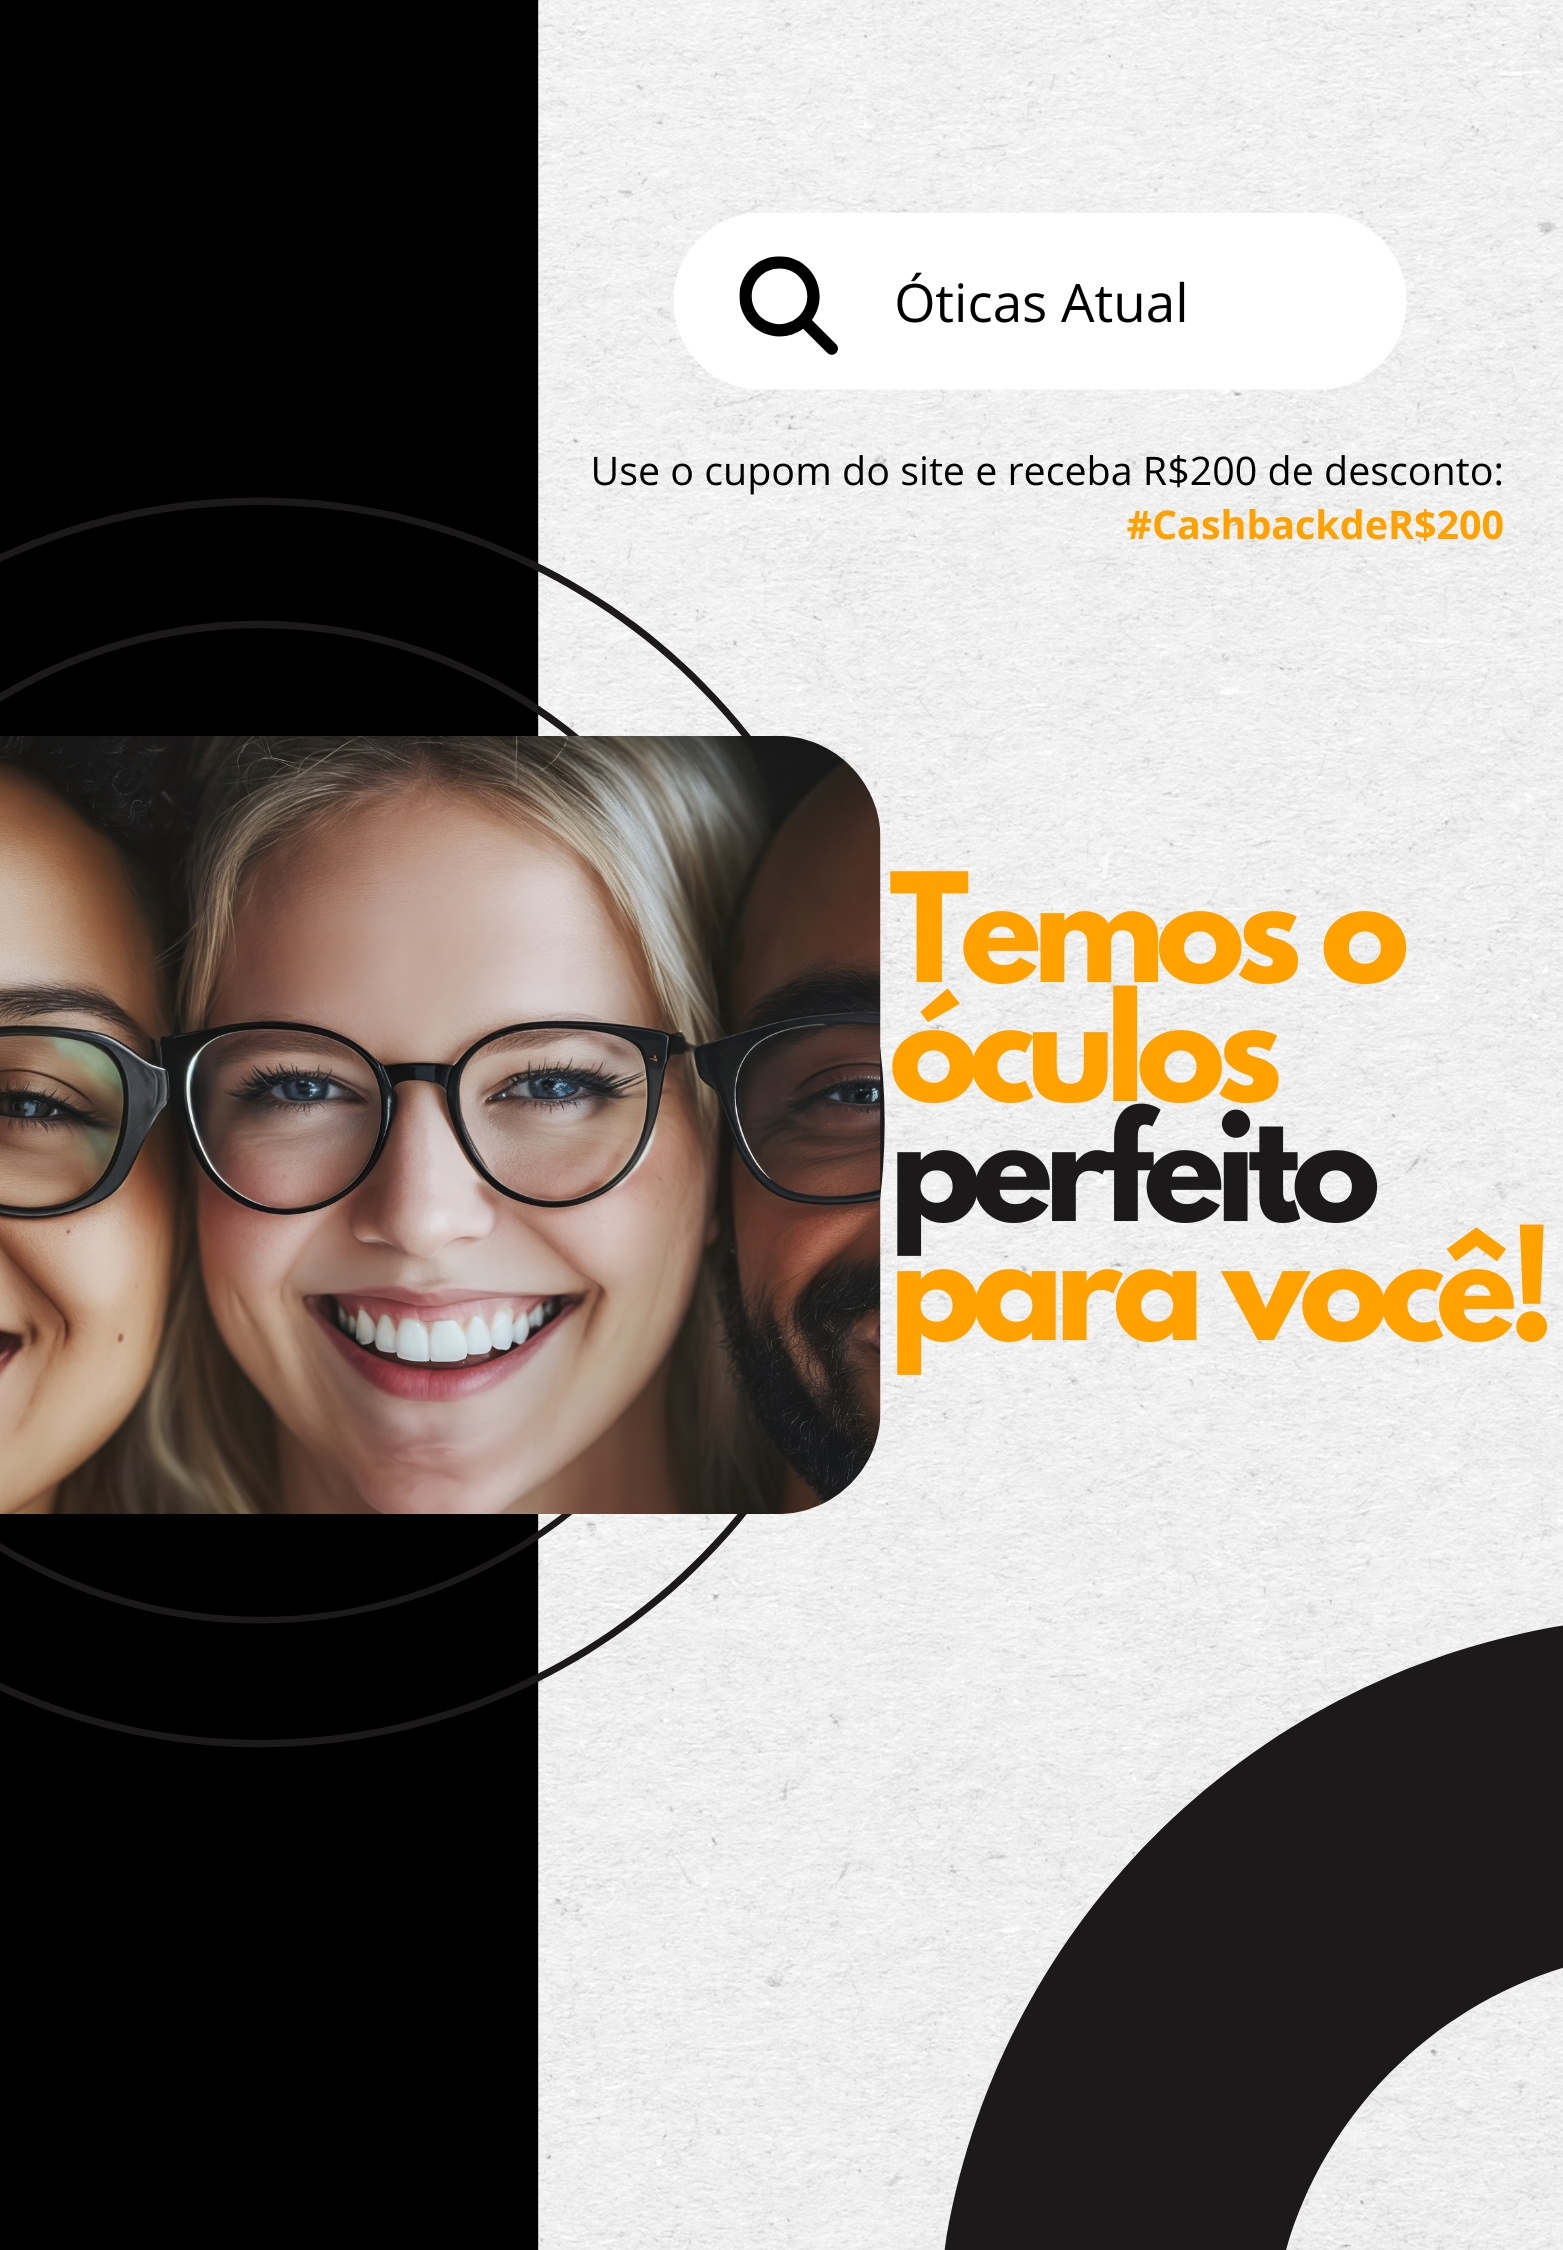
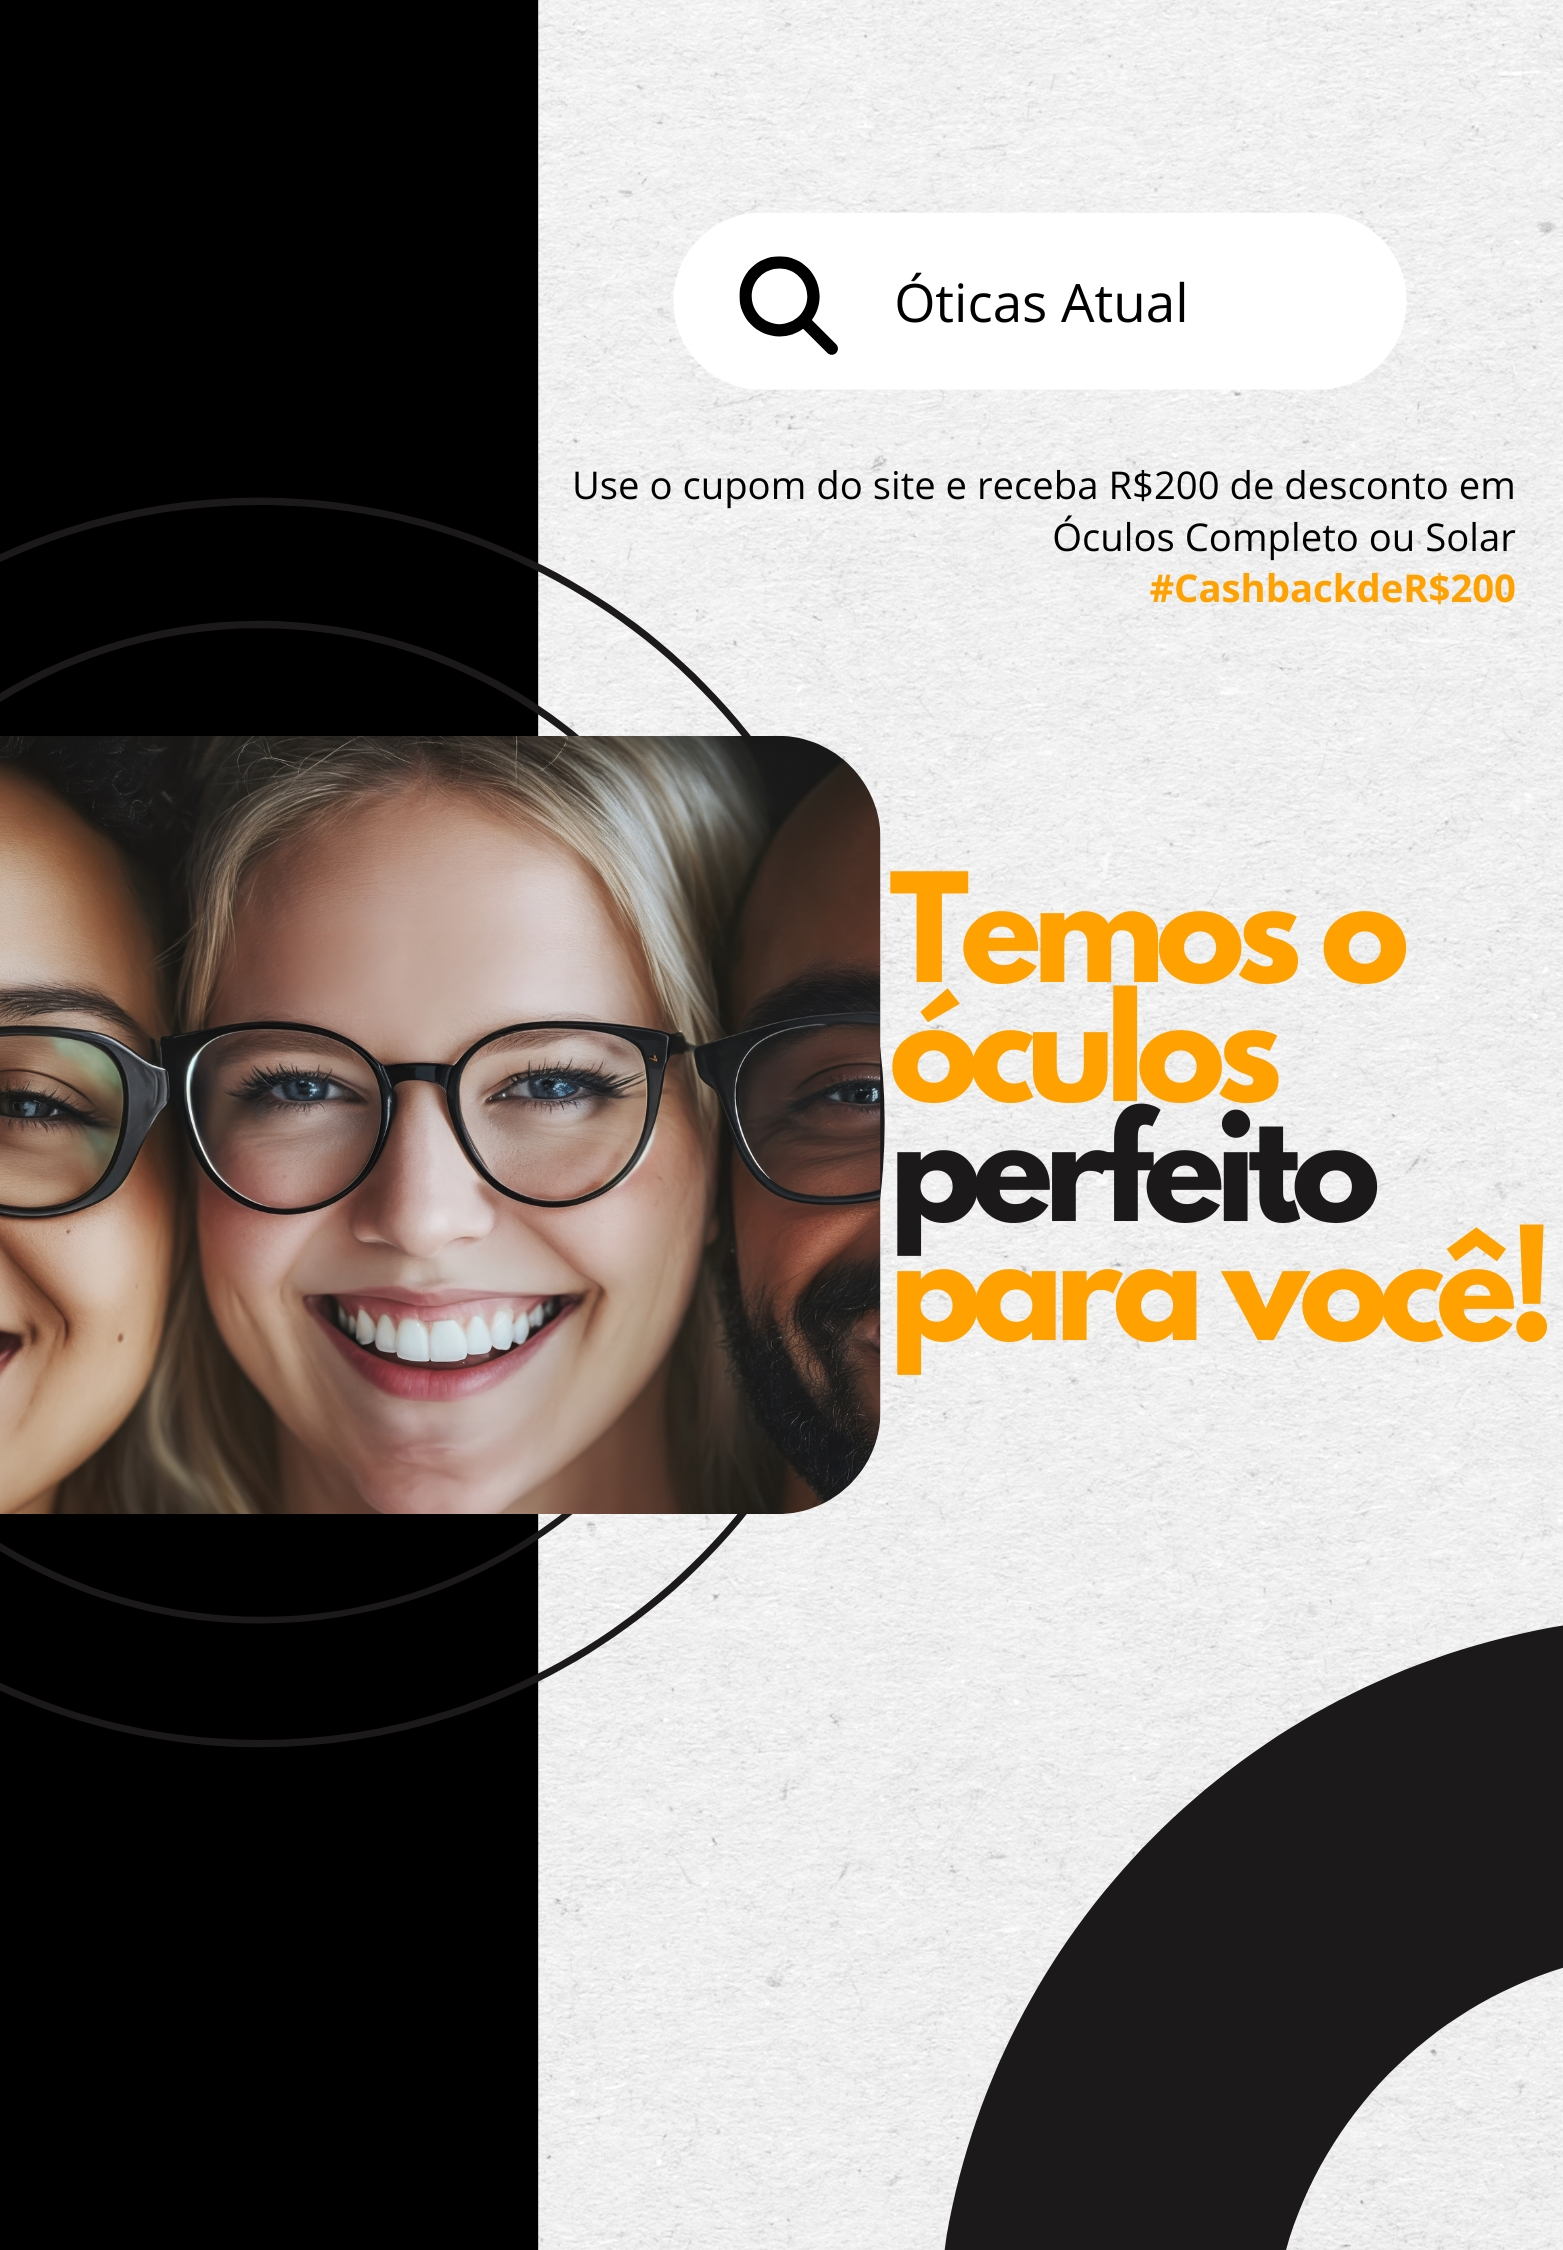
.

Changed region(s): [[0.3685, 0.1867, 0.9827, 0.28]]

diff --git a/index.html b/index.html
@@ -62,7 +62,7 @@
                     height="300" style="border:0;" allowfullscreen="" loading="lazy"
                     referrerpolicy="no-referrer-when-downgrade"></iframe>
                 <a id="btnAnl" href="https://wa.me/554396593397" class="btn btn-primary btn-lg">
-                    <i class="bi bi-whatsapp"></i> Londrina - Souza Naves 484
+                    <i class="bi bi-whatsapp"></i> Londrina - Souza Naves 726
                 </a>
             </div>
             <div class="d-flex flex-column flex-grow-1" style="flex-basis: 400px;">
@@ -71,7 +71,7 @@
                     height="300" style="border:0;" allowfullscreen="" loading="lazy"
                     referrerpolicy="no-referrer-when-downgrade"></iframe>
                 <a id="btnAnl" href="https://wa.me/554330391309" class="btn btn-primary btn-lg">
-                    <i class="bi bi-whatsapp"></i> Londrina - Souza Naves 726
+                    <i class="bi bi-whatsapp"></i> Londrina - Souza Naves 484
                 </a>
             </div>
             <div class="d-flex flex-column flex-grow-1" style="flex-basis: 400px;">
@@ -294,7 +294,7 @@
             </div>
             <div class="d-flex flex-column flex-grow-1 justify-content-center gap-4 p-2 align-items-center flex-basis">
                 <span class="fs-4 fw-bold text-center" data-aos="fade-left">Oie! Só passando pra te <span class="subtitle">lembrar</span>,
-                    que se você usar o nosso cupom. Você ganha <span class="text-primary fs-3">R$200</span> de desconto!</span>
+                    que se você usar o nosso cupom. Você ganha <span class="text-primary fs-3">R$200</span> de desconto em Óculos completo ou Solar!</span>
                 <span class="fs-4 fw-bold text-primary text-end w-100 funnels" data-aos="fade-right">#CashbackdeR$200</span>
                 <div class="d-flex justify-content-end flex-grow-1 align-items-end mt-5" data-aos="fade-down">
                     <img src="assets/img/girl_idle.png" class="img-fluid">
